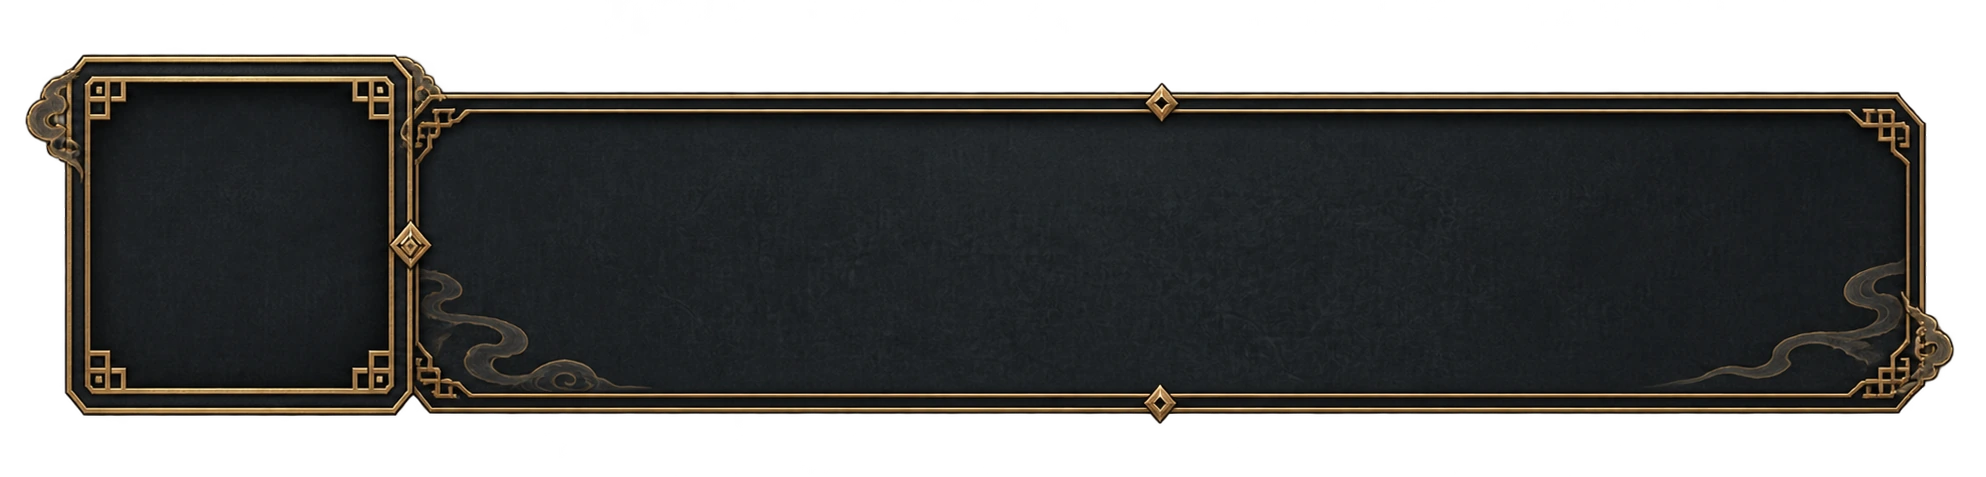
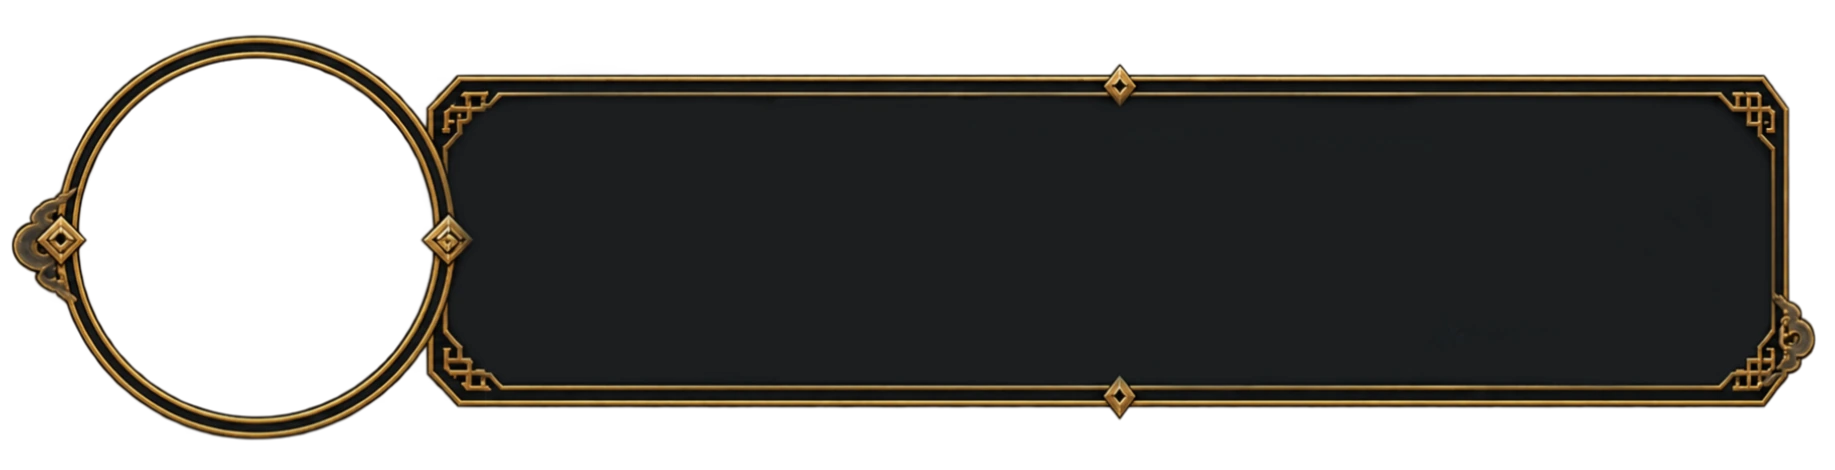
Refine map dialogue portraits and event art

Changed region(s): [[0.0, 0.0596, 0.994, 0.9532]]

diff --git a/docs/map-editing-guide.md b/docs/map-editing-guide.md
@@ -16,15 +16,17 @@
 
 ## 桥西端对话测试与微调
 
+2026-09-16圆框参数：新map-dialogue源图1835×470，background_region=[10,33,1807,409]；portrait_slot=[62,20.5,368,368]、portrait_max_size=368、text_rect=[475,95,1250,220]，均为裁切后坐标。主角player-1-1使用portrait_region=[22,18,448,448]，青岚宗弟子npc-qlzdz-1使用[27,27,664,664]。每张头像先按实际有效圆心裁去透明留白，再等比填满窗口、裁圆，头像先画在圆框金边下方；不能对不同尺寸头像套相同原图裁切。更换新头像时，校准portrait_region使圆孔边缘对应的像素不透明，并保留约4源像素的金边覆盖量，避免漏图。不要直接拉伸横纵比例。
+
 目前大桥西端N37和中央小屋旁N20配置互动。从最右侧起点点击N37，等主角走到并停稳后，再点同一路径节点才显示第一句。对话打开后任意位置左键单击进入下一句，显示第5句后再点一次关闭并完成。完成N37后才可触发N20：到达停稳再点击节点，先显示事件框和插画，再点一次显示第一句，20句按说话者切换头像，末句后再点一次完成。期间不能移动角色、拖图或缩放；关闭点击不会穿透。完成后仅对应节点的Sign和StoryIcon一起隐藏，节点和路线保留，其他路标不受影响。同次运行重新进入地图也不重复；F8→F5重启可重新测试，没有写入存档。
 
-事件配置：`data/map_events/qingshihewan_bridge_dialogue.json`及`qingshihewan_wounded_disciple.json`，由地图JSON的event_files引用。lines为逐段文本；presentation为背景、头像及区域参数；speakers和line_speakers指定各句头像，requires_completed指定前置完成事件。对话背景按可见区域等比显示，中心为屏幕宽50%、高75%，美术整体在旧版“宽88%窗口/高不超过34%”基准上再等比乘2/3；文字字号仍按旧版基准计算，1920×1080时为32px。portrait_slot和text_rect以裁切后的背景原图坐标为准，portrait_max_size控制圆头像最大边，保持头像原始比例和方框中心。更换图尺寸或边距后须核对这些区域。
+事件配置：`data/map_events/qingshihewan_bridge_dialogue.json`及`qingshihewan_wounded_disciple.json`，由地图JSON的event_files引用。lines为逐段文本；presentation为背景、头像及区域参数；speakers和line_speakers指定各句头像，requires_completed指定前置完成事件。对话背景按可见区域等比显示，中心为屏幕宽50%、高75%，美术整体在旧版“宽88%窗口/高不超过34%”基准上再等比乘2/3；文字使用系统楷体KaiTi，字号按旧版基准计算后减1，1920×1080时为31px。portrait_slot和text_rect以裁切后的背景原图坐标为准，portrait_max_size控制圆头像最大边，保持头像原始比例和圆框中心。更换图尺寸或边距后须核对这些区域。
 
-N20的presentation.illustration配置事件框、插画及image_slot内窗。实际框素材名为map-event-frame.webp；插画为map-event-1-1.webp，等比覆盖内窗并少量裁边。`scripts/map/map_event_picture.gd`的layout_for控制顶部30%和距对话框16逻辑像素的间距，自动缩小事件框以避免重叠；`scripts/map/map_dialogue.gd`控制对话中心75%。两者均使用屏幕坐标，不随地图缩放。1080p事件框约582×361.74，对话框1126.4×216.53。后续微调这两处布局参数即可，不必修改源图。通用结构见`docs/map-interaction-design.md`；其他事件类型等待后续开发。
+N20的presentation.illustration配置事件框、插画及image_slot内窗。实际框素材名为map-event-frame.webp；插画为map-event-1-1.webp，等比覆盖内窗并少量裁边。`scripts/map/map_event_picture.gd`的layout_for先计算旧版顶部30%及距对话框16逻辑像素的基准尺寸，再以旧底边中心为锚点将框和内图等比放大5/3（先乘4/3，再乘1.25），向上扩展，保持底边及对话间距；`scripts/map/map_dialogue.gd`控制对话中心75%。两者均使用屏幕坐标，不随地图缩放。新版对话框按原始比例显示为1126.4×254.95，边界约y682.52～937.48；事件图相应适配为918.47×570.87，顶部约95.65、底部约666.52，保持16px间隔。后续微调这两处布局参数即可，不必修改源图。通用结构见`docs/map-interaction-design.md`；其他事件类型等待后续开发。
 
 ## 玩家移动与动画
 
-最新run素材（2026-09-15）：fr-run.webp为2600×724，7个不等距源姿势；从左起4→5→6→7→6→5→4→3→2→1→2→3循环，12fps，每轮1秒。复用frame_regions，7个360×724区域的x分别为37/419/766/1086/1422/1787/2141，y均0，不平均切图。display_frame_height=170，feet_offset=(0,-224)，以第4姿势脚底y586为地面参考，保留奔跑中自然腾空。源图不改；idle/walk、移动速度及3节点起跑规则保持。
+最新run素材（2026-09-15）：fr-run.webp为2600×724，7个不等距源姿势；从左起4→5→6→7→6→5→4→3→2→1→2→3循环，16fps，每轮0.75秒。复用frame_regions，7个360×724区域的x分别为37/419/766/1086/1422/1787/2141，y均0，不平均切图。display_frame_height=170，feet_offset=(0,-224)，以第4姿势脚底y586为地面参考，保留奔跑中自然腾空。源图不改；idle/walk、移动速度及3节点起跑规则保持。
 
 **覆盖动作图片后没有更新：**回到Godot等待文件扫描/导入完成，F8停止旧预览，再F5运行；如果仍未更新，选中assets/fr-walk.webp，在“导入”面板点击“重新导入”。本轮已发现源图1683×600而缓存仍1644×561，并通过重新导入修复。仅改像素且布局不变一般不需改参数；若画布尺寸或人物位置变化，应重新校准frame_regions。旧导出exe需要重新导出。
 
@@ -40,7 +42,7 @@ N20的presentation.illustration配置事件框、插画及image_slot内窗。实
 - walk为200原图像素/秒、run为360；缩放只影响显示。重新运行从右侧末端开始，目前不保存位置。
 - 快速验证：从EastExit出发，点N15为1节点walk；点N14为2节点walk；点N12为3节点run。节点方位见下表。
 
-`data/maps/player.json` 可调整起点稳定ID、walk_speed/run_speed、display_scale、脚底偏移及动画帧率。新版idle使用fr-idle.webp的4个543×724帧，新版walk为5个源姿势，按上述独立区域切分并组成8步循环，新版run为7个360×724独立切片，按上述12步顺序播放，帧率为3/8/12（idle已减慢一半），每组循环。默认display_scale=1.0，地图角色显示尺寸为旧版2倍，并与地图一起缩放。每种动画可以单独设置frame_size和feet_offset；不同分辨率会统一显示帧高，idle脚底偏移为(0,-300)，walk为(0,-217.5)，使用frame_regions指定切片、display_frame_height=133.3匹配站立主体高度，run为(0,-224)，run另外用display_frame_height=170补偿透明留白，动作切换时脚底位置保持。图片仍是原始横向精灵表，运行时分帧，不修改源图。改参数保存后重新F5生效。
+`data/maps/player.json` 可调整起点稳定ID、walk_speed/run_speed、display_scale、脚底偏移及动画帧率。新版idle使用fr-idle.webp的4个543×724帧，新版walk为5个源姿势，按上述独立区域切分并组成8步循环，新版run为7个360×724独立切片，按上述12步顺序播放，帧率为3/8/16（idle已减慢一半），每组循环。默认display_scale=1.0，地图角色显示尺寸为旧版2倍，并与地图一起缩放。每种动画可以单独设置frame_size和feet_offset；不同分辨率会统一显示帧高，idle脚底偏移为(0,-300)，walk为(0,-217.5)，使用frame_regions指定切片、display_frame_height=133.3匹配站立主体高度，run为(0,-224)，run另外用display_frame_height=170补偿透明留白，动作切换时脚底位置保持。图片仍是原始横向精灵表，运行时分帧，不修改源图。改参数保存后重新F5生效。
 
 ## 调整标记位置（Godot 2D编辑器）
 

diff --git a/PROJECT_PROGRESS.md b/PROJECT_PROGRESS.md
@@ -2,6 +2,42 @@
 
 > 跨任务交接入口。开始先读本文与 AGENTS.md，再核对实际代码和 Git；结束时更新。用户要求遇到新玩法歧义先确认再编辑，已确认规则不重复询问。
 
+## Git 同步（2026-09-16）
+
+用户明确要求同步 Git。同步前 `main` 与 `origin/main` 均为 `a008baa`，`git fetch origin --prune` 后远端没有新增提交。此次提交现有的对话肖像/窗口、事件图、跑步动画及其地图数据、测试和文档更新；本次仅进行版本同步，未改功能或重新执行完整测试，相关验证结果见下方本轮记录。
+
+## 新版圆形对话框与头像匹配（2026-09-16）
+
+对话中的青岚宗弟子换为npc-qlzdz-1.webp，主角换为player-1-1.webp，覆盖N37及N20逐句头像引用，稳定说话者ID和台词不变。新map-dialogue源图1835×470，去透明边缘后Atlas为[10,33,1807,409]。圆孔实际中心约(256,237.5)，开口最大半径约180.1；裁切后portrait_slot=[62,20.5,368,368]、portrait_max_size=368，半径184略压住金边内沿。MapDialogue复用portrait_mask.gdshader裁圆，头像在下、对话背景金边在上，避免留缝或头像压住边框。
+
+两张头像分别按透明区域和圆心校准：player-1-1原图490×490，Atlas[22,18,448,448]；npc-qlzdz-1原图715×715，Atlas[27,27,664,664]。等比缩放至同一圆孔，源图均未修改。新文字区[475,95,1250,220]，字号独立沿旧1930×371参考基准计算，保持31px楷体，避免背景尺寸变化导致文字变大。
+
+对话框继续横向居中、中心屏高75%，1080p宽1126.4、高254.95，边界约y682.52～937.48，圆形头像外径约229.39。由于底板变高，上方事件图由既有自动布局适配到约918.47×570.87，边界y95.65～666.52，继续保持16px间距且不重叠。图片比例、事件推进/完成/前置条件和地图操作锁保持。
+
+验证tests/run.ps1 -Render全部通过：1066逻辑、258/359战斗UI、334/343地图、36移动、60/63玩家UI、94事件、34/37原对话、135/142插画对话，导入/地图/战斗/编辑器启动和撤退退出通过。新增两种头像圆孔边缘360度不透明覆盖及圆形裁切/金边前景层次检查，更新资源路径和新窗口几何。初次回归遇到头像恰好填满窗口时的浮点边界误差，几何断言加0.01px容差后重跑全套通过。查看NPC首句、主角第2句及最长第9句渲染，头像居中贴边、无可见缝隙，长句完整显示。截图沿用artifacts/illustration_dialogue_1920x1080.png、illustration_paragraph_02.png、illustration_paragraph_09.png；既有短时战斗退出2个ObjectDB warning仍在。
+
+本轮完成，无必做遗留；README、AGENTS、地图设计/编辑指南已更新，未提交或同步Git。F8→F5查看，N37显示新主角头像，完成后到N20查看两人交替对话。后续新头像请分别校准portrait_region，不按整张画布统一缩放；旧素材保留但地图事件不再引用。
+
+## 事件图再次放大25%、对话改楷体（2026-09-16）
+
+按用户要求，事件框和内部插画在当前尺寸上再等比放大四分之一，底边中心固定，向上及两侧扩展。累计比例为最初布局的5/3（4/3×1.25）。1080p约970×602.90，顶部约82.84，底边仍685.74；对话框位置/大小保持，与事件框间距仍16逻辑像素。初始插画和对话阶段均采用同一布局，不修改源图片。
+
+MapDialogue字体由微软雅黑换成系统楷体KaiTi（备用楷体/STKaiti/Kaiti SC/serif），原响应式字号减1，1080p从32变31，最小字号由16变15。已通过Godot实际查询确认DIALOGUE_FONT=KaiTi，路径C:/WINDOWS/FONTS/simkai.ttf，未将Windows字体文件复制到项目；其他机器需可用楷体字体，否则采用系统回退。头像、文字颜色和事件流程保持。
+
+验证tests/run.ps1 -Render全部通过：1066逻辑、258/359战斗UI、334/343地图、36移动、60/63玩家UI、94事件、34/37原对话、131/138插画对话，导入/项目/战斗/编辑器启动及撤退退出通过。更新既有布局倍率和31px字号断言，验证两种窗口下固定底边、不重叠及文本容纳；查看artifacts/illustration_paragraph_09.png，最长台词用楷体完整呈现。字体查询记录在artifacts/dialogue_font_audit.stdout.log。既有短时战斗退出2个ObjectDB warning仍在。
+
+本轮完成，无必做遗留；README、AGENTS、地图设计/编辑指南已更新，未提交或同步Git。F8→F5，完成N37后前往N20再次点击查看；N37同样使用31px楷体。跨平台发布时可另选可分发楷体资源，以统一不同系统字形，此项仅后续建议，未实施。
+
+## 跑步色调刷新、动画提速与事件图放大（2026-09-15）
+
+用户替换fr-run.webp，仅调整部分帧色调。与HEAD源图比对，新旧均2600×724，Alpha通道逐像素完全相同，保留7个独立切片、12步顺序、显示大小及脚底参数。已通过Godot重新导入，源MD5与导入缓存source_md5一致为b56ef871da2caaf63103d86b034c5628。跑步动画由12fps提高为16fps，12步循环从1秒缩至0.75秒；地图实际跑速仍360原图像素/秒，walk/idle保持。
+
+事件框与内部插画在上一版尺寸上等比放大4/3，以旧底边中心为锚点，向上及两侧扩展，底边不动。MapEventPicture先算原布局尺寸，再统一放大及回移顶部。1080p约776×482.32，顶部由324移至约203.42，底边仍约685.74；与对话框保持16逻辑像素间距，对话中心仍75%。初始插画阶段和对话阶段布局一致，素材宽高比及内窗裁切方式保持。旧“事件图顶部30%”不再是当前显示规则，仅为计算旧尺寸的基准。
+
+验证tests/run.ps1 -Render全部通过：1066逻辑、258/359战斗UI、334/343地图、36移动、60/63玩家UI、94事件、34/37原对话、131/138插画对话；素材导入、项目/战斗/编辑器启动与撤退退出通过。更新既有动画速度与事件图布局断言，覆盖1080p及1280×800的固定底边、4/3缩放和不重叠。已查看刷新后的artifacts/illustration_dialogue_1920x1080.png，确认放大向上、图文间距及完整显示。既有短时战斗退出2个ObjectDB warning仍在；git diff --check通过。
+
+本轮完成，无必做遗留，README、AGENTS及地图设计/编辑文档已更新；未提交或同步Git。F8→F5查看新版跑步，完成N37后前往N20再次点击查看放大插画。后续可按用户观感微调帧率和图框尺寸。
+
 ## Git 同步（2026-09-15）
 
 用户明确要求同步 Git。同步前实际工作区包含青石河湾地图、路线与移动、地图事件/对话、地图资源、相关战斗展示调整、平衡分析源码及设计/验证文档；`main` 与 `origin/main` 均为 `1faf218`，`git fetch origin --prune` 后远端无新增提交。`analysis/` 受 `.gdignore` 排除，不参与 Godot 运行，保留为与原型文档对应的分析源数据。本次仅提交并推送已存在的改动，未改功能或重跑完整测试；实现验证结果见下方各项记录。

diff --git a/docs/map-interaction-design.md b/docs/map-interaction-design.md
@@ -1,10 +1,16 @@
 # 地图节点互动与桥头对话（2026-09-15）
 
+## 新版圆框适配（2026-09-16）
+
+map-dialogue源图1835×470，可见裁切[10,33,1807,409]。圆孔中心原图约(256,237.5)，最大开口半径约180.1；在裁切后坐标配置portrait_slot=[62,20.5,368,368]，头像半径184略压入金边下，复用portrait_mask.gdshader裁圆，并先画头像、再画对话框，避免缝隙及遮盖金边。每个说话者使用独立居中方形Atlas：player-1-1原图490×490取[22,18,448,448]，npc-qlzdz-1原图715×715取[27,27,664,664]，避开透明边缘并保持图像等比。
+
+文字区改为裁切后[475,95,1250,220]；文字字号仍依原1930×371基准计算，避免背景尺寸更换使31px楷体意外变大。新对话框宽度仍1126.4（1080p），高度随原图比例变为254.95，中心仍屏高75%；事件图自动按新的对话上沿适配，保持间隔。JSON配置负责人物差异，不改稳定说话者ID、剧情数据或源图片。
+
 ## N20插画与双人对话扩展
 
-用户指定中央小屋旁的N20。沿用到达后再次点击的互动入口，先同时显示map-event-frame.webp（用户称map-event-pic，工作区实际文件名为frame）和map-event-1-1.webp，再点击才显示首句对话。扩展既有dialogue事件的可选illustration阶段、speakers头像表与逐句line_speakers；保留原N37纯文字事件格式及稳定ID。每次点击推进一个段落，按说话者切换npc-xuetu-qlz/zhujue-m1头像，完整保存20句原文。法器、采集、治疗均为台词，此轮不引入相关玩法或奖励。
+用户指定中央小屋旁的N20。沿用到达后再次点击的互动入口，先同时显示map-event-frame.webp（用户称map-event-pic，工作区实际文件名为frame）和map-event-1-1.webp，再点击才显示首句对话。扩展既有dialogue事件的可选illustration阶段、speakers头像表与逐句line_speakers；保留原N37纯文字事件格式及稳定ID。每次点击推进一个段落，按说话者切换npc-qlzdz-1/player-1-1头像，完整保存20句原文。法器、采集、治疗均为台词，此轮不引入相关玩法或奖励。
 
-用户最新确认：事件框顶部仍为屏高30%，水平居中，允许缩小以避免与对话框重叠；对话框中心改为屏高75%，字号和尺寸保持。插画从首次打开起就预留对话空间，与下方对话框间隔16逻辑像素（随窗口宽度缩放），两阶段不跳变。插画在对话期间保留；所有图片保持源比例，内容居中覆盖内框窗口并由边框遮住边缘。N20要求先完成N37的独白，requires_completed引用稳定事件ID。纯状态增加illustration阶段，下次点击才进入dialogue第0段；20段读完再点击一次完成，隐藏N20路标及图标，运行期不重复、重启重置。与N37共享输入锁定和完成记录，不发放台词中提到的法器或任务奖励。
+用户最新调整：事件框在初次放大三分之一后，再等比放大25%（相对最初基准为5/3），以旧底边中心为锚点向上扩展，底边及水平中心不动；旧版顶部30%仅用作计算原尺寸的基准，当前顶部不再锁定30%；对话框中心为屏高75%，背景及头像尺寸保持；文字改为系统楷体KaiTi，1080p字号32→31，其余窗口按原响应字号减1。插画从首次打开起就预留对话空间，与下方对话框间隔16逻辑像素（随窗口宽度缩放），两阶段不跳变。插画在对话期间保留；所有图片保持源比例，内容居中覆盖内框窗口并由边框遮住边缘。N20要求先完成N37的独白，requires_completed引用稳定事件ID。纯状态增加illustration阶段，下次点击才进入dialogue第0段；20段读完再点击一次完成，隐藏N20路标及图标，运行期不重复、重启重置。与N37共享输入锁定和完成记录，不发放台词中提到的法器或任务奖励。
 
 ## 已完成的N37机制
 
@@ -14,6 +20,6 @@
 
 用户确认完成记录仅保留当前运行期间，重启游戏重置。记录以事件稳定ID保存在纯状态的运行期共享字典；不写磁盘、不引入存档。完成后隐藏该节点的Sign及内部图案，保留路径点和连接，不修改布局源场景。重新实例化地图时按完成记录恢复隐藏状态。
 
-对话使用map-dialogue.webp背景（裁去透明边缘，保留源图宽高比），整体中心在屏幕(x=50%,y=75%)，底板和头像统一缩至初版的2/3，文字字号保留初版响应式大小并在缩小后的右侧区域排版，跟随窗口不跟随地图平移/缩放。zhujue-m1.webp按可见范围等比纳入左侧方框并居中，右侧逐句显示用户原文。用户确认对话为全屏输入模态：暂时锁定地图移动、拖动和缩放，任意位置左键单击推进；第5句再点一次关闭并完成。开启事件的原始点击不同时推进第一句，关闭的点击不穿透到地图；右键、滚轮、拖动、失焦后的抬键均不推进。
+对话使用map-dialogue.webp背景（裁去透明边缘，保留源图宽高比），整体中心在屏幕(x=50%,y=75%)，底板按既有屏宽比例显示，头像各自裁去透明边距并填满左侧圆框，文字改用系统楷体KaiTi，字号在初版响应式计算值上减1（1080p为31px）并在缩小后的右侧区域排版，跟随窗口不跟随地图平移/缩放。player-1-1.webp按独立校准的有效圆形区域等比填满左侧圆框、居中并以圆形蒙版裁切，右侧逐句显示用户原文。用户确认对话为全屏输入模态：暂时锁定地图移动、拖动和缩放，任意位置左键单击推进；第5句再点一次关闭并完成。开启事件的原始点击不同时推进第一句，关闭的点击不穿透到地图；右键、滚轮、拖动、失焦后的抬键均不推进。
 
 验证覆盖：未到达不能触发、到达不自动打开、停稳再次点击触发、逐句显示、完成后不重复及只隐藏目标路标；继续覆盖地图拖动/缩放/改道、所有旧战斗检查，并渲染核对画框位置、头像与中文文本。

diff --git a/AGENTS.md b/AGENTS.md
@@ -1,5 +1,11 @@
 # Path of Immortals
 
+- Latest round dialogue portraits (2026-09-16): map-dialogue.webp now1835x470, cropped[10,33,1807,409]. Replace event portrait paths with player-1-1.webp (490x490,Atlas[22,18,448,448]) and npc-qlzdz-1.webp (715x715,Atlas[27,27,664,664]); stable speaker IDs unchanged. Round aperture center in cropped art is(246,204.5), configure slot[62,20.5,368,368],max_size368,text_rect[475,95,1250,220]. Portraits use equal-scale calibrated crops, circular portrait_mask shader, drawn beneath the background rim with radius184 covering aperture radius~180.1; no transparent gap or spill outside rim. Keep31px KaiTi by computing font against prior1930x371 reference independently of new art. At1080p dialogue1126.4x254.95 centered(960,810); event picture automatically fits above it with16px gap (about918.47x570.87). Preserve source images and all event rules. See docs/map-interaction-design.md. No Git sync.
+
+- Latest event art/type (2026-09-16): enlarge the current event frame and illustration another25%, preserving the prior bottom center and gap; total scale is5/3 of the initial fitted baseline (4/3 *1.25). At1080p about970x602.90, top82.84, bottom685.74. Dialogue text now uses SystemFont KaiTi/楷体, with STKaiti/Kaiti SC/serif fallbacks; use preceding responsive font size minus1 (31px at1080p). Keep dialogue center75%, background/portrait sizes and all event semantics. Use installed system font rather than bundling Windows font files. No Git sync.
+
+- Latest run tone/picture scale (2026-09-15): updated fr-run.webp retains2600x724 and identical alpha/pose locations; reimport without changing slices/order/display/feet. Run playback now16fps (12-step loop0.75s), movement speed remains360. Event picture/frame scale is now4/3 of the preceding fitted size, anchored at its previous bottom center, expanding upward and sideways uniformly. Preserve the16px1080p dialogue gap and75% dialogue center; old30% picture top is only the baseline calculation, not the new top. At1080p picture is about776x482.32, top203.42, bottom685.74. No Git sync.
+
 - Latest run sheet (2026-09-15) supersedes older six-frame run rules: fr-run.webp is2600x724 with7 unevenly spaced poses. Loop4→5→6→7→6→5→4→3→2→1→2→3 at12fps (12 playback frames,1s). Use existing frame_regions:360x724 slices at x37/419/766/1086/1422/1787/2141,y0. display_frame_height170 and feet_offset(0,-224) align source pose4 ground y586 with idle/walk while preserving airborne stride poses. Source unchanged; Godot cache reimported and runtime size verified. Keep movement speed/threshold, walk and idle unchanged. See artifacts/run7_size_comparison.png and docs/map-player-design.md. No Git sync.
 
 - Latest illustrated event (2026-09-15) supersedes the N37-only scope and70% dialogue position below: N20 at(2082,954) hosts base.map_event.qingshihewan.wounded_disciple, requiring completed bridge_traces. After arrival/idle, a second node click opens map-event-frame.webp plus map-event-1-1.webp; the next click starts20 authored paragraphs with npc-xuetu-qlz/zhujue-m1 portraits selected by line_speakers. Keep illustration visible during dialogue, top at30% screen height, uniformly shrink to fit above the dialogue with16px gap at1080p. All dialogue centers now at(50%,75%), retaining1126.4x216.53 artwork and32px font at1080p. Preserve source aspect ratios; illustration fills/clips its configured inner window. MapEventRegistry validates optional speakers/illustration and prerequisite existence/cycles; pure MapEventState owns illustration/dialogue phases and shared run-only completion. Final extra click completes and hides only that node's Sign subtree; restart resets. Preserve modal input locks. No item rewards, healing, gathering, saves or battle transitions are implied by dialogue. Run map_illustrated_dialogue_smoke alongside existing checks. See docs/map-interaction-design.md and map-editing-guide.md. No Git synchronization.

diff --git a/docs/map-player-design.md b/docs/map-player-design.md
@@ -1,6 +1,6 @@
 # 地图玩家移动与帧动画（2026-09-15）
 
-最新run素材（2026-09-15）：fr-run.webp为2600×724，7个不等距源姿势；从左起4→5→6→7→6→5→4→3→2→1→2→3循环，12fps，每轮1秒。复用frame_regions，7个360×724区域的x分别为37/419/766/1086/1422/1787/2141，y均0，不平均切图。display_frame_height=170，feet_offset=(0,-224)，以第4姿势脚底y586为地面参考，保留奔跑中自然腾空。源图不改；idle/walk、移动速度及3节点起跑规则保持。
+最新run素材（2026-09-15）：fr-run.webp为2600×724，7个不等距源姿势；从左起4→5→6→7→6→5→4→3→2→1→2→3循环，16fps，每轮0.75秒。复用frame_regions，7个360×724区域的x分别为37/419/766/1086/1422/1787/2141，y均0，不平均切图。display_frame_height=170，feet_offset=(0,-224)，以第4姿势脚底y586为地面参考，保留奔跑中自然腾空。源图不改；idle/walk、移动速度及3节点起跑规则保持。
 
 最新walk素材覆盖下文旧规格：源图1683×600，5个姿势，按3→4→5→4→3→2→1→2循环，8fps、每轮1秒。新版人物不是严格等距，使用frame_regions逐帧指定310×561区域（x=59/379/687/994/1310，y=35）。MapPlayer校验区域为整数、数量等于sheet_frames、全部在贴图内且尺寸一致；frame_order仍为从1开始的源帧序号。未指定frame_regions时兼容原有等分切片。walk的display_frame_height=133.3，feet_offset=(0,-217.5)，主体可见高约104～106地图像素，与idle一致；源图不改。
 
@@ -10,7 +10,7 @@
 
 架构：JSON记录玩家贴图、帧尺寸/数量/FPS、起点及移动速度。布局场景继续作为节点/路线几何源；MapScreen启动时将位置与曲线复制成纯数据交给RefCounted的MapTravelState。该状态用Dijkstra按曲线烘焙长度选路，按传入delta推进，独立于场景树、动画和系统时钟；固定ID排序保证等长路线选择稳定。地图显示缩放不改变原图单位的行走速度。
 
-MapPlayer共用AnimatedSprite2D，idle为4个543×724帧（3fps），walk和run使用上文最新的独立切片与播放顺序（8/12fps）。每个动作以display_frame_height补偿透明留白，feet_offset保持落脚参考点。脚底固定在地图位置，左右依据运动方向翻转，不旋转立绘；人物与地图统一缩放。动作读取移动状态而非以动画驱动移动，场景内分层位于节点之上。
+MapPlayer共用AnimatedSprite2D，idle为4个543×724帧（3fps），walk和run使用上文最新的独立切片与播放顺序（8/16fps）。每个动作以display_frame_height补偿透明留白，feet_offset保持落脚参考点。脚底固定在地图位置，左右依据运动方向翻转，不旋转立绘；人物与地图统一缩放。动作读取移动状态而非以动画驱动移动，场景内分层位于节点之上。
 
 鼠标普通地图区域用箭头、悬停节点用链接手形，仅超过拖动阈值后用移动光标；节点命中与点击命中共用函数，缩放/拖动/释放时刷新。左键按下记录位置，超过6视口像素视为拖图；抬起时未拖动才命中节点，拖动、失焦及滚轮缩放后的释放不下达移动命令。到下个节点前保留当前速度与曲线，改道时按新整段路线长度重新选择walk/run；连续改指令以最后一次为准。第一次进入地图将视图定位到起点，之后维持手动浏览、不自动追踪角色。
 
